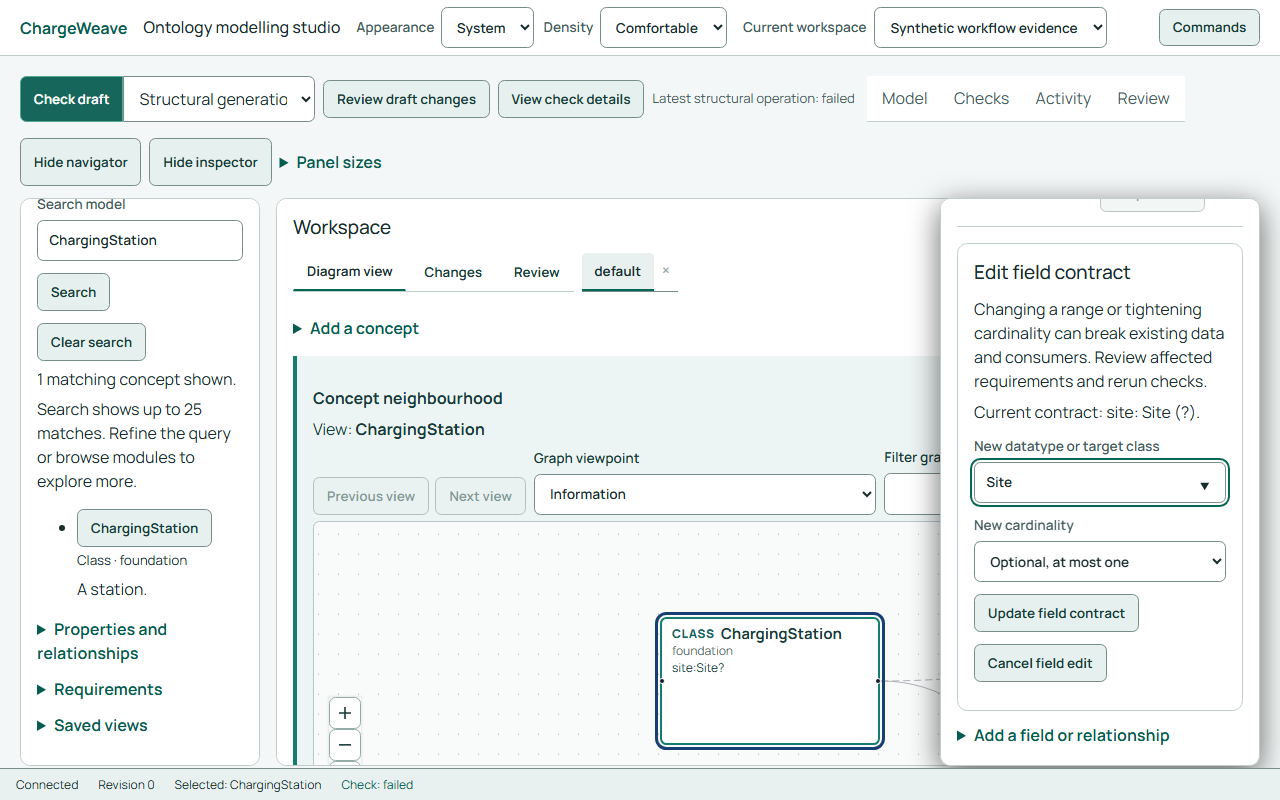
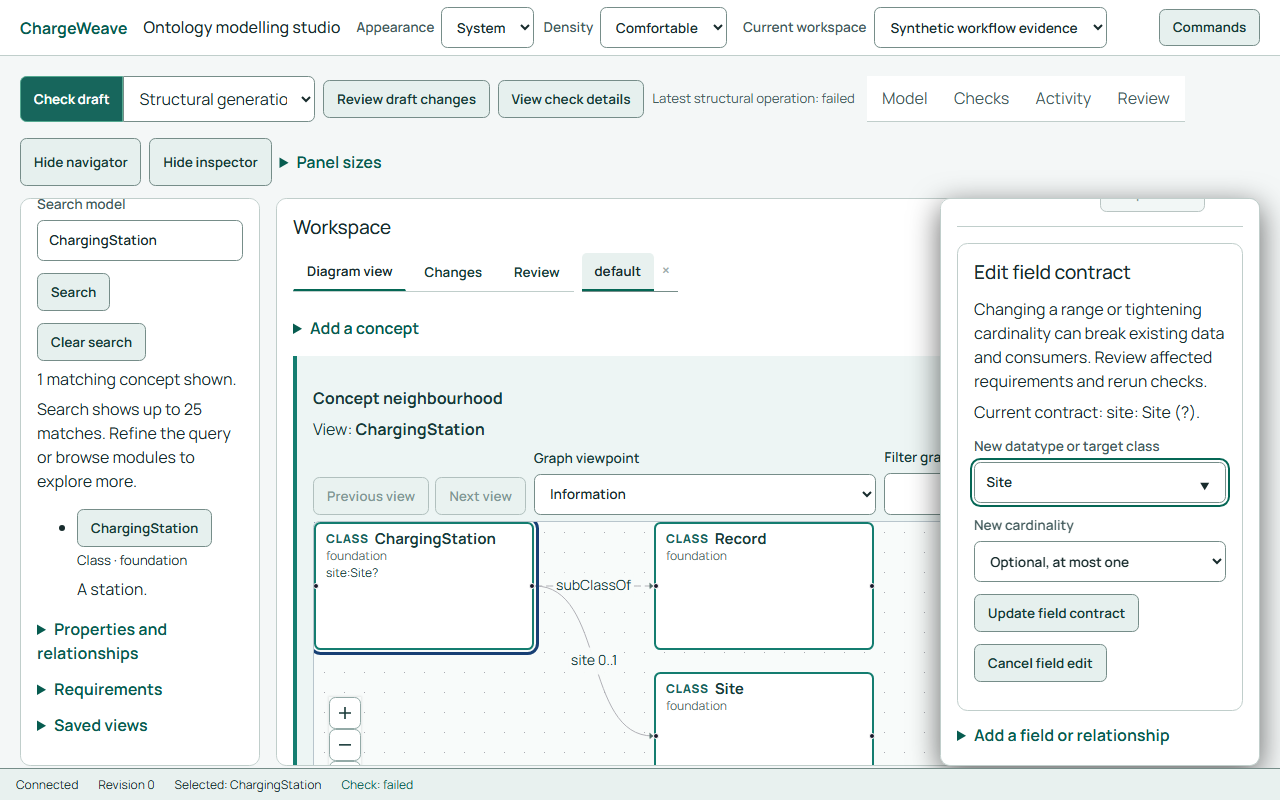
Improve pairing welcome and capture wide workflow views
Give the local pairing action a bounded welcome card and concise guidance, then capture synthetic light and dark workflow views at both desktop sizes. Verify the website build and desktop/mobile connection validation; remaining visual journeys and human accessibility acceptance remain open.

diff --git a/website/src/ModellingStudio.jsx b/website/src/ModellingStudio.jsx
@@ -2056,7 +2056,8 @@ export default function ModellingStudio() {
       { label: 'Review draft changes', run: () => openWorkspaceTask(null, 'studio-review-workflow-heading') },
     ]} />}
     {!connection && <p>Use Codex to propose changes; inspect and refine them here.</p>}
-    <form className="studio-connect" onSubmit={pair} hidden={Boolean(connection)}>
+    <form className="studio-connect studio-pairing" onSubmit={pair} hidden={Boolean(connection)}>
+      <h2>Connect to your local studio</h2><p>Start the local authoring service, then enter the pairing code it provides.</p>
       <label>Pairing code <input type="password" value={pairingCode} onChange={event => setPairingCode(event.target.value)} required autoComplete="off" /></label>
       <button type="submit">Pair local studio</button>
     </form>

diff --git a/website/src/modelling-studio.css b/website/src/modelling-studio.css
@@ -146,6 +146,9 @@ html:has(.modelling-studio) { scroll-behavior: auto; }
 .modelling-studio form:not(.studio-connect) { display: flex; flex-wrap: wrap; gap: .75rem; align-items: end; margin: .75rem 0; }
 .modelling-studio form:not(.studio-connect) label { flex: 1 1 12rem; }
 .studio-connect { padding: 1rem; margin: .75rem 0; border: 1px solid var(--studio-border); border-radius: .65rem; background: var(--studio-panel); }
+.studio-pairing { max-width: 42rem; }
+.studio-pairing h2, .studio-pairing p { flex: 1 1 100%; margin: 0; }
+.studio-pairing p { color: var(--studio-muted); }
 .studio-connect[hidden] { display: none; }
 .studio-connect label { flex: 1 1 12rem; }
 .studio-connect input { min-width: 0; }

diff --git a/evidence/ontology-studio/ide/README.md b/evidence/ontology-studio/ide/README.md
@@ -8,6 +8,6 @@ To reproduce, build the website and run `node scripts/capture-studio-evidence.mj
 
 The visual review identified and fixed broken word wrapping in the 320px document tabs, low contrast on the selected compact-navigation hover state, and low contrast in the diagram legend in dark mode. The compact captures still require scrolling to reach the full diagram and list.
 
-The additional `welcome`, `relationship-editor`, `problems` and `review` images capture light and dark 1280×800 views from a separate in-memory synthetic workspace. The failed check and its output are simulated. These were captured using the working tree based on `43bf2ddea7543c8e4c5b0bec6f0d565403f16f2f` plus the inspector-table fix committed with them; rerun `node scripts/capture-studio-workflows.mjs` from `website` after building to reproduce. The inspector table now retains readable column widths with keyboard-accessible horizontal scrolling; its actions may require scrolling. Some screenshots show a scrolled position reached during the scenario.
+The additional `welcome`, `relationship-editor`, `problems` and `review` images capture light and dark views at 1280×800 and 1920×1080 from a separate in-memory synthetic workspace. The failed check and its output are simulated. These were recaptured using the working tree based on `347b602eff16120483324f09da4aae4bf560800e` plus the welcome-card changes committed with them. After building, run `node scripts/capture-studio-workflows.mjs` from `website` for 1280px or add `--wide` for 1920px. The inspector table retains readable column widths with keyboard-accessible horizontal scrolling; its actions may require scrolling. Some screenshots show a scrolled position reached during the scenario.
 
-These captures are partial visual evidence, not acceptance: equivalent workflow views at 1920px, Changes, dense-view and other required scenarios, real browser zoom, assistive technology and independent human usability review remain outstanding.
+These captures are partial visual evidence, not acceptance: Changes, dense-view and other required scenarios, real browser zoom, assistive technology and independent human usability review remain outstanding.

diff --git a/docs/ontology-modelling-ide-ux-status.md b/docs/ontology-modelling-ide-ux-status.md
@@ -128,6 +128,8 @@ Eight synthetic connected-view screenshots in [the IDE evidence folder](../evide
 
 Additional synthetic light and dark screenshots cover the welcome, relationship editor, failed-check and review views at 1280×800. Review exposed field-table columns compressing to single letters in the inspector drawer. The table now retains readable column widths in a labelled, keyboard-scrollable region, with an explicit scrolling hint. The website build and focused theme/drawer checks passed locally (three passed, three project-specific skips). Some table actions require horizontal scrolling; 1920px workflow views, other required screenshots and human accessibility review remain open.
 
+The synthetic welcome, relationship editor, failed-check and review views were also captured at 1920×1080 in both themes. The wide welcome review led to a narrower pairing card with short local-service guidance. The website build, both screenshot scripts and two focused desktop/mobile connection-validation scenarios passed locally. Changes, dense-view and other required visual scenarios, real zoom and human accessibility acceptance remain open.
+
 Shared-view load and save now require unfinished note or group input to be added or cleared first. A load also stops if such input is started while the request is in flight; a save reports when input typed afterward was not included. The website build, six desktop/mobile note and load-race scenarios, six desktop/mobile load/save-race scenarios, and eight related saved-view scenarios passed locally. GitHub verification remains separate.
 
 When a shared-view save completes after later local changes, the success notice now explicitly says those later changes remain unsaved; unfinished input is also identified, including if the view list refresh fails. The website build and **12 focused desktop/mobile saved-view and delayed-operation scenarios** passed locally. This is not evidence of independent usability review.
